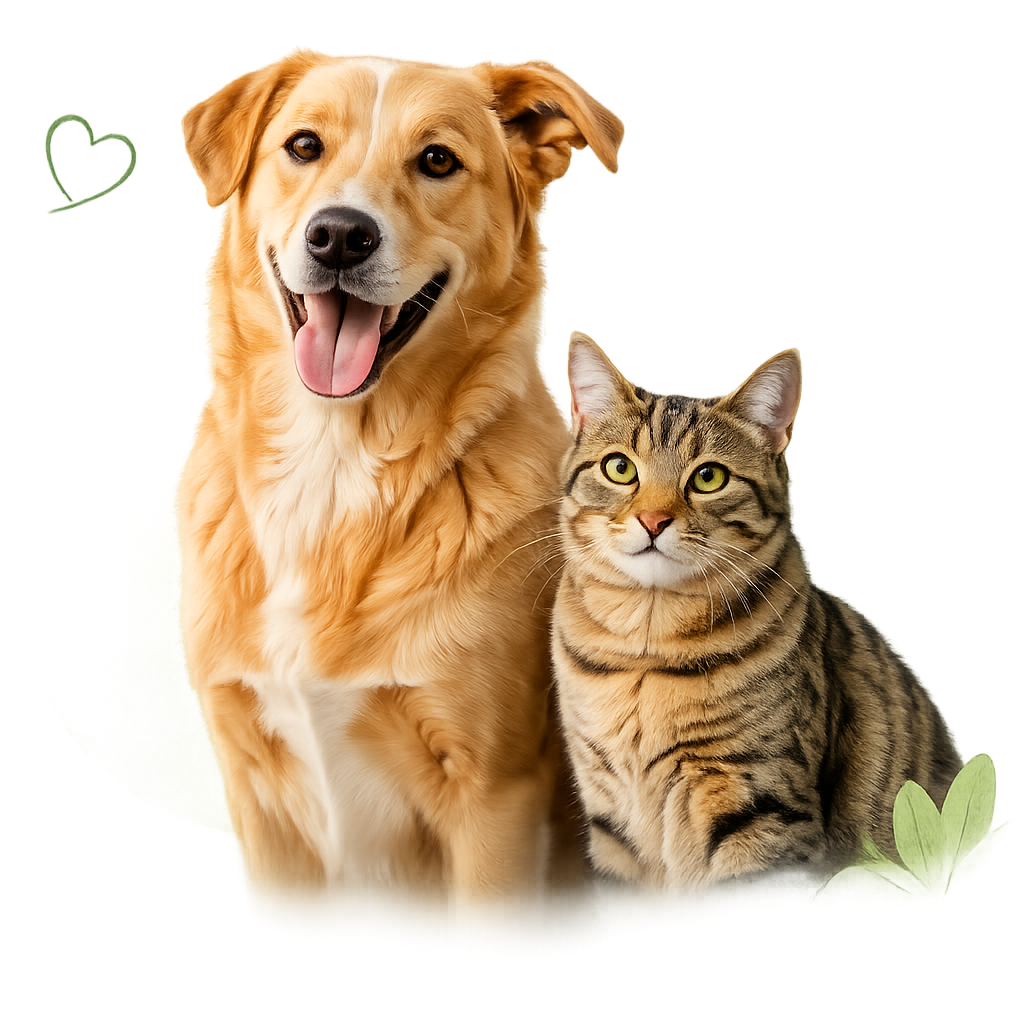
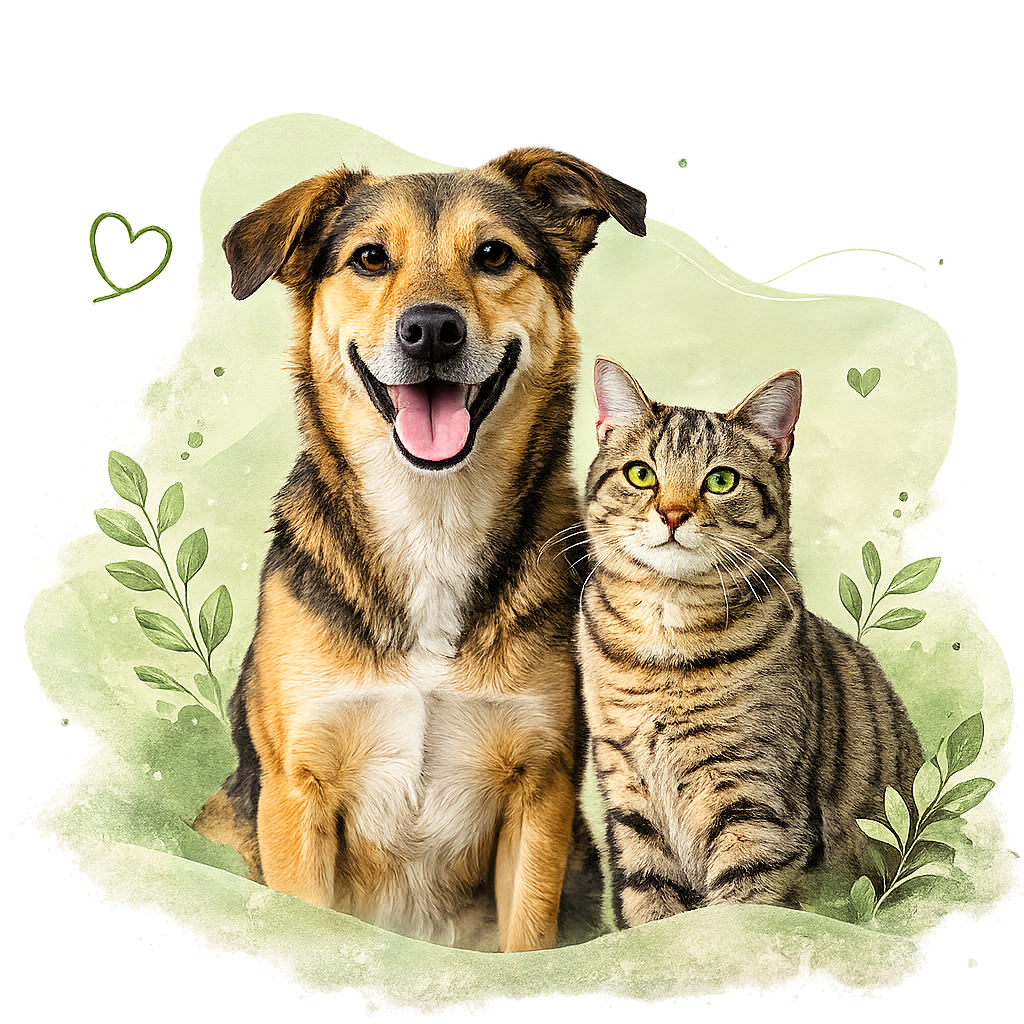
feat: add a steps section

diff --git a/css/style.css b/css/style.css
@@ -165,7 +165,7 @@ body {
 .about .right h2 {
     color: #54744c;
     font-size: 24px;
-    font-weight: 700;
+    font-weight: 600;
     margin: 12px 0 20px 0;
     background-color: transparent;
 }
@@ -204,15 +204,14 @@ body {
     align-items: center;
     margin: 0;
     padding: 0;
+    background-color: transparent;
 }
 .how-it-works h2 {
     color: #54744c;
     font-size: 24px;
-    align-items: center;
     justify-content: center;
-    font-weight: 700;
+    font-weight: 600;
     margin: 12px 0 20px 0;
-    background-color: transparent;
 }
 
 .how-it-works h3 {
@@ -220,5 +219,48 @@ body {
     font-size: 42px;
     font-weight: 600;
     margin: 0 0 30px 0;
-    background-color: transparent;
+    justify-content: center;
+}
+
+.how-it-works .steps {
+    display: flex;
+    margin: 0;
+    padding: 0 0 120px 0;
+}
+
+.how-it-works .steps .step {
+    background-color: white;
+    border-radius: 20px;
+    text-align: center;
+    box-shadow: 0 8px 30px rgba(30,42,36,0.06);
+    width: 300px;
+    margin: 0 15px;
+}
+
+.how-it-works img {
+    background-color: #DDE8D8;
+    justify-content: center;
+    margin-top: 15px;
+    padding: 10px;
+    border-radius: 50%;
+    height: 35px;
+    width: auto;
+}
+
+.how-it-works .steps .step h4 {
+    margin-bottom: 15px;
+    font-size: 1.5em;
+    color: #54744c;
+    font-weight: 700;
+    font-size: 14px;
+    font-family: 'Poppins', sans-serif;
+    background-color: white;
+}
+
+.how-it-works .steps .step p {
+    color: #7E8A83;
+    font-weight: medium;
+    font-family: 'Poppins', sans-serif;
+    background-color: white;
+    font-size: 14px;
 }

diff --git a/index.html b/index.html
@@ -91,6 +91,27 @@
         <section class="how-it-works">
             <h2>Como funciona</h2>
             <h3>Um processo simples e transparente</h3>
+            <div class="steps">
+                <div class="step">
+                    <img src="assets/form.svg" alt="Imagem de um calendário">
+                    <h4>Preencha o formulário</h4>
+                    <p>Conte-nos sobre<br>você e seu pet.</p>
+                </div>
+                <div class="step">
+                    <img src="assets/telephone.svg" alt="Imagem de um telefone">
+                    <h4>Entraremos em contato</h4>
+                    <p>Nossa equipe ira avaliar<br>e orientar você.</p>
+                </div>
+                <div class="step">
+                    <img src="assets/recuperation.svg" alt="Imagem de um coração">
+                    <h4>Atendimento<br>e castração</h4>
+                    <p>Realizamos o procedimento<br>com todo cuidado e segurança.</p>
+                </div>
+                <div class="step">
+                    <img src="assets/house.svg" alt="Imagem de um coração">
+                    <h4>Acompanhamento<br>e recuperação</h4>
+                    <p>Acolhimento e orientações<br>para uma recuperação tranquila.</p>
+                </div>
         </section>
     </main>
 </body>
